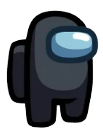
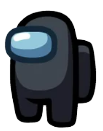
DecorFinal

diff --git a/js/script.js b/js/script.js
@@ -312,7 +312,17 @@ var emergency_button = document.getElementById("emergency_button");
 
 var pnj_dead = document.getElementById("pnj_dead");
 
+
+
+var plante = document.getElementById("plant");
+
+var o2 = document.getElementById("o2");
+
+
+
+
 var oxygene = Boolean(false);
+
 
 // création bouteille oxygene
 var bouteille_oxygene = document.createElement("img")
@@ -334,7 +344,7 @@ pnj_purple.src = "pics/AmongUs_purple.png";
 pnj_purple.style.width = 65 + "px";
 pnj_purple.style.gridColumnStart = 9;
 pnj_purple.style.gridRowStart = 10;
-pnj_purple.style.zIndex = 6;
+pnj_purple.style.zIndex = 4;
 
 // création pnj rose
 var pnj_pink = document.createElement("img");
@@ -367,11 +377,12 @@ pnj_black.style.zIndex = 4;
 // gestion de la clé
 var keyB = Boolean(false);
 console.log(keyB);
+
 // gestion du couteau
 var knife = document.createElement("img")
 knife.src = "pics/knife.png";
-knife.style.width = 100+"px";
-knife.style.height = 60+"px";
+knife.style.width = 150+"px";
+knife.style.height = 80+"px";
 
 // gestion du burger
 var burgerBool = Boolean(false);
@@ -385,6 +396,37 @@ key.style.width = 40+"px" ;
 key.style.gridColumnStart = 5;
 key.style.gridRowStart = 11;
 key.style.zIndex = 6;
+
+//                DECOR                   //
+
+// ajout de l'alien sur la map
+var alien = document.createElement("img");
+alien.src = "pics/alien.png";
+alien.style.gridColumnStart = 2;
+alien.style.gridRowStart = 8;
+alien.style.zIndex = 5;
+
+// ajout du scanner sur la map
+var scanner = document.createElement("img");
+scanner.src = "pics/scanner.png";
+scanner.style.gridColumnStart = 11;
+scanner.style.gridRowStart = 9;
+scanner.style.zIndex = 5;
+
+// ajout de la table sur la map
+var table = document.createElement("img");
+table.src = "pics/table.png";
+table.style.gridColumnStart = 5;
+table.style.gridRowStart = 11;
+table.style.zIndex = 6;
+
+// ajout de l'O2' sur la map
+var O2 = document.createElement("img");
+O2.src = "pics/O2.png";
+O2.style.height = 100+"px";
+O2.style.gridColumnStart = 10;
+O2.style.gridRowStart = 2;
+O2.style.zIndex = 6;
 
 //jeu de la carte
 let cardShow = document.getElementById("canvas");
@@ -405,13 +447,18 @@ function collision(){
 function immobile(event){
     let touche=event.key
     if (touche = " "){
-        document.getElementById("player").src="pics/idle.png";
+        if (idleLeft==false){
+            document.getElementById("player").src="pics/idle.png";
+         // si le joueur va à gauche son image change   
+        }else{
+            document.getElementById("player").src="pics/idle_left.png";
+        }
     } 
 }
     //on integre le message a la grille quand le joueur passe devant le bouton, on peut aussi mettre le message directement dans le html
     // et l'afficher ou le hide en fonction de la position peut etre ?
     
-
+var idleLeft = Boolean(false);
 
 // gestion déplacement
 function deplacement(event) {
@@ -461,6 +508,7 @@ function deplacement(event) {
     // gestion flèche de gauche
     else if (touche == "ArrowLeft") {
         document.getElementById("player").src="gif/walkreverse.gif";
+        idleLeft = Boolean(true);
         // gestion sortie grid
         if (colonne > 1) {
             // direction kitchen à cafet
@@ -496,6 +544,7 @@ function deplacement(event) {
     // gestion flèche de droite
     else if (touche == "ArrowRight") {
         document.getElementById("player").src="gif/walk.gif";
+        idleLeft=Boolean(false);
         // gestion sortie grid
         if (colonne < 12) {
             // direction cafet à kitchen
@@ -543,22 +592,32 @@ function deplacement(event) {
     player.style.gridColumn = colonne;
     player.style.gridRow = ligne;
 
-    // ajout ou non des PNJ sur les différentes maps
+    // ajout ou non des PNJ et des objets sur les différentes maps
     if (map == grid_kitchen){
         key.remove();
+        O2.remove();
+        plante.remove();
+        scanner.remove();
+        alien.remove();
         emergency_button.remove();
         pnj_dead.remove();
         pnj_pink.remove();
         pnj_purple.remove();
         pnj_yellow.remove();
         pnj_white.remove();
+        div.appendChild(table);
         div.appendChild(pnj_black);
     } else if(map == grid_central){
+        O2.remove();
+        plante.remove();
+        scanner.remove();
+        table.remove();
         emergency_button.remove();
         pnj_dead.remove();
         pnj_black.remove();
         pnj_white.remove();
         pnj_purple.remove();
+        div.appendChild(alien);
         div.appendChild(pnj_yellow);
         div.appendChild(pnj_pink);
         div.appendChild(key);
@@ -568,29 +627,44 @@ function deplacement(event) {
         }
     } else if(map == grid_medbay){
         key.remove();
+        O2.remove();
+        plante.remove();
+        alien.remove();
+        table.remove();
         emergency_button.remove();
         pnj_dead.remove();
         pnj_pink.remove();
         pnj_black.remove();
         pnj_yellow.remove();
         pnj_white.remove();
+        div.appendChild(scanner);
         div.appendChild(pnj_purple);
     } else if(map == grid_navigation){
         key.remove();
+        plante.remove();
+        scanner.remove();
+        alien.remove();
+        table.remove();
         emergency_button.remove();
         pnj_dead.remove();
         pnj_pink.remove();
         pnj_purple.remove();
         pnj_yellow.remove();
         pnj_black.remove();
+        div.appendChild(O2);
         div.appendChild(pnj_white);
     }else if(map == grid_cafet){
         key.remove();
+        O2.remove();
+        scanner.remove();
+        alien.remove();
+        table.remove();
         pnj_pink.remove();
         pnj_purple.remove();
         pnj_yellow.remove();
         pnj_black.remove();
         pnj_white.remove();
+        div.appendChild(plante);
         div.appendChild(pnj_dead);
         div.appendChild(emergency_button);
     }

diff --git a/js/mapping.js b/js/mapping.js
@@ -2,7 +2,7 @@
 // Grille de la cafétéria
 let grid_cafet = [
     ["mur","mur","mur","mur", "mur", "mur", "mur", "mur","mur", "mur", "mur", "mur", "mur","mur"],
-    ["mur", "mur","mur","sol", "sol", "sol", "sol", "sol","sol", "sol", "mur", "mur", "mur","mur"],
+    ["mur", "mur","mur","sol", "mur", "sol", "sol", "sol","sol", "sol", "mur", "mur", "mur","mur"],
     ["mur", "mur","sol","sol", "sol", "sol", "sol", "sol","sol", "sol", "sol", "mur", "mur","mur"],
     ["mur", "sol","sol","table", "table", "sol", "sol", "sol","table", "table", "sol", "sol", "mur","mur"],
     ["mur", "sol","sol","table", "table", "sol", "sol", "sol","table", "table", "table", "sol", "sol","mur"],
@@ -20,11 +20,11 @@ let grid_central = [
     ["mur","mur","mur","mur", "mur", "mur", "mur", "mur","mur", "mur", "mur", "mur", "mur","mur"],
     ["mur", "mur","mur","mur", "mur", "mur", "mur", "mur","mur", "mur", "mur", "mur", "mur", "mur"],
     ["mur","mur","mur","mur", "mur", "mur", "mur", "mur","mur", "mur", "mur", "mur", "mur", "mur"],
-    ["mur","mur","mur","mur", "mur", "sol", "sol", "sol","sol", "mur", "mur", "mur", "mur", "mur"],
+    ["mur","mur","mur","mur", "mur", "sol", "mur", "sol","sol", "mur", "mur", "mur", "mur", "mur"],
     ["mur","mur","mur","sol", "sol", "sol", "mur", "sol","sol", "sol", "sol", "mur", "mur", "mur"],
     ["mur","mur", "sol","sol", "sol", "pierre", "sol", "sol", "sol", "sol", "sol", "sol", "mur", "mur"],
     ["mur","mur","sol","sol", "pierre", "pierre", "sol", "sol","sol", "sol", "sol", "sol", "mur", "mur"],
-    ["mur","mur","sol","sol", "pierre", "pierre", "sol", "sol","sol", "sol", "sol", "sol", "mur", "mur"],
+    ["mur","mur","sol","mur", "pierre", "pierre", "sol", "sol","sol", "sol", "sol", "sol", "mur", "mur"],
     ["mur","mur","sol","mur", "sol", "sol", "sol", "sol","sol", "sol", "sol", "sol", "portecent_cafet", "mur"],
     ["mur","mur","sol", "sol", "sol", "sol", "sol", "sol","sol", "sol", "sol", "sol", "portecent_cafet", "mur"],
     ["mur","mur","sol","sol", "sol", "sol", "sol", "sol","sol", "sol", "sol", "sol", "mur", "mur"],
@@ -44,8 +44,8 @@ let grid_kitchen = [
     ["mur","sol","sol","sol", "sol", "sol", "sol", "sol","sol", "sol", "mur", "mur", "mur", "mur"],
     ["mur","sol","sol", "sol", "sol", "sol", "sol", "sol","sol", "sol", "mur", "mur", "mur", "mur"],
     ["mur","portekitch_cafet","sol","sol", "sol", "sol", "sol", "sol","sol", "sol", "sol", "portenav", "portenav", "mur"],
-    ["mur","portekitch_cafet","sol","sol", "sol", "sol", "sol", "sol","sol", "sol", "sol", "portenav", "portenav", "mur"],
-    ["mur","sol","sol","sol", "sol", "sol", "sol", "sol","sol", "sol", "sol", "mur", "mur", "mur"],
+    ["mur","portekitch_cafet","sol","sol", "sol", "mur", "mur", "mur","sol", "sol", "sol", "portenav", "portenav", "mur"],
+    ["mur","sol","sol","sol", "sol", "mur", "mur", "mur","sol", "sol", "sol", "mur", "mur", "mur"],
 ]
 // Grille de MedBay
 let grid_medbay = [
@@ -58,7 +58,7 @@ let grid_medbay = [
     ["mur", "lit","lit","sol", "sol", "sol", "sol", "lit","lit", "mur", "mur", "mur", "mur"],
     ["mur","lit","lit","sol", "sol", "sol", "sol", "lit","lit", "mur", "mur", "mur", "mur"],
     ["mur", "sol","sol","sol", "sol", "sol", "sol", "sol","sol", "mur", "mur", "mur", "mur"],
-    ["mur","sol","sol", "sol", "sol", "sol", "sol", "sol","sol", "sol", "mur", "mur", "mur"],
+    ["mur","sol","sol", "sol", "sol", "sol", "sol", "sol","sol", "mur", "mur", "mur", "mur"],
     ["mur","sol","sol","sol", "sol", "sol", "sol", "sol", "sol", "mur", "sol", "mur", "mur"],
     ["mur","mur","sol","sol", "sol", "sol", "sol", "sol","sol", "sol", "sol", "sol", "mur"],
     ["mur","mur","mur","mur", "mur", "mur", "mur", "mur","mur", "mur", "mur", "mur", "mur","mur"],
@@ -67,7 +67,7 @@ let grid_medbay = [
 let grid_navigation = [
     ["mur","mur","mur","mur", "mur", "mur", "mur", "mur","mur", "mur", "mur", "mur", "mur","mur"],
     ["mur","mur","mur","mur", "mur", "mur", "mur", "mur","mur", "mur", "mur", "mur", "mur"],
-    ["mur","mur","mur","mur", "mur", "mur", "sol", "sol", "sol", "sol", "sol", "mur", "mur"],
+    ["mur","mur","mur","mur", "mur", "mur", "sol", "sol", "sol", "mur", "sol", "mur", "mur"],
     ["mur","mur","mur","mur", "mur", "mur", "sol", "sol","sol", "mur", "sol", "mur", "mur"],
     ["mur","mur","mur","mur", "mur", "mur", "sol", "sol","sol", "sol", "mur", "mur", "mur"],
     ["mur","mur", "mur","mur", "mur", "mur", "sol", "sol", "sol", "sol", "mur", "mur", "mur"],

diff --git a/vote.html b/vote.html
@@ -15,17 +15,17 @@
     <h1>Qui est le tueur ?</h1>
     <div id="blockEnd">
         <div>
-            <a href="badchoice.html"><img id="AmongUs" src="pics/AmongUs_black.png" alt="black"></a>
+            <a href="badchoice.html"><img id="AmongUs" src="pics/AmongUs_black_reverse.png" alt="black"></a>
         </div>
         <div>
             <a href="badchoice.html"><img id="AmongUs" src="pics/AmongUs_pink.png" alt="pink">
             </a>
         </div>
         <div>
-            <a href="goodchoice.html"><img id="AmongUs" src="pics/AmongUs_purple.png" alt="purple"></a>
+            <a href="goodchoice.html"><img id="AmongUs" src="pics/AmongUs_purple_reverse.png" alt="purple"></a>
         </div>
         <div>
-            <a href="badchoice.html"><img id="AmongUs" src="pics/AmongUs_white.png" alt="white"></a>
+            <a href="badchoice.html"><img id="AmongUs" src="pics/AmongUs_white_reverse.png" alt="white"></a>
         </div>
         <div>
             <a href="badchoice.html"><img id="AmongUs" src="pics/AmongUs_yellow.png" alt="yellow"></a>

diff --git a/index.html b/index.html
@@ -9,11 +9,12 @@
 </head>
 <body>
     
-    <!-- bloque contenant la grille et les images  -->
+    <!-- bloc contenant la grille et les images  -->
     <div id="blockGame">
         <div id="grille">
             <img id="player" src="pics/idle.png" alt="pic">
             <img id="pnj_dead" src="pics/cadavre-bleu.png" alt="pnj" >
+            <img id="plant" src="pics/plant.png" alt="plante">
             <img id="emergency_button" src="pics/Emergency_button.webp" alt="Emergency_button">
             <div class="dialogue" id="alarme">Appuyez sur Espace pour activer l'alarme</div>
             <div class="dialogue" id="question">etes-vous sur de savoir qui est le tueur? <br> Pas de retour en arriere possible<br>

diff --git a/css/style.css b/css/style.css
@@ -41,6 +41,14 @@ body {
     z-index: 5;
 }
 
+
+#plant {
+    grid-column-start: 4;
+    grid-row-start: 1;
+    z-index: 5;
+}
+
+
 #emergency_button{
     height:32px;
     grid-column-start: 6;
